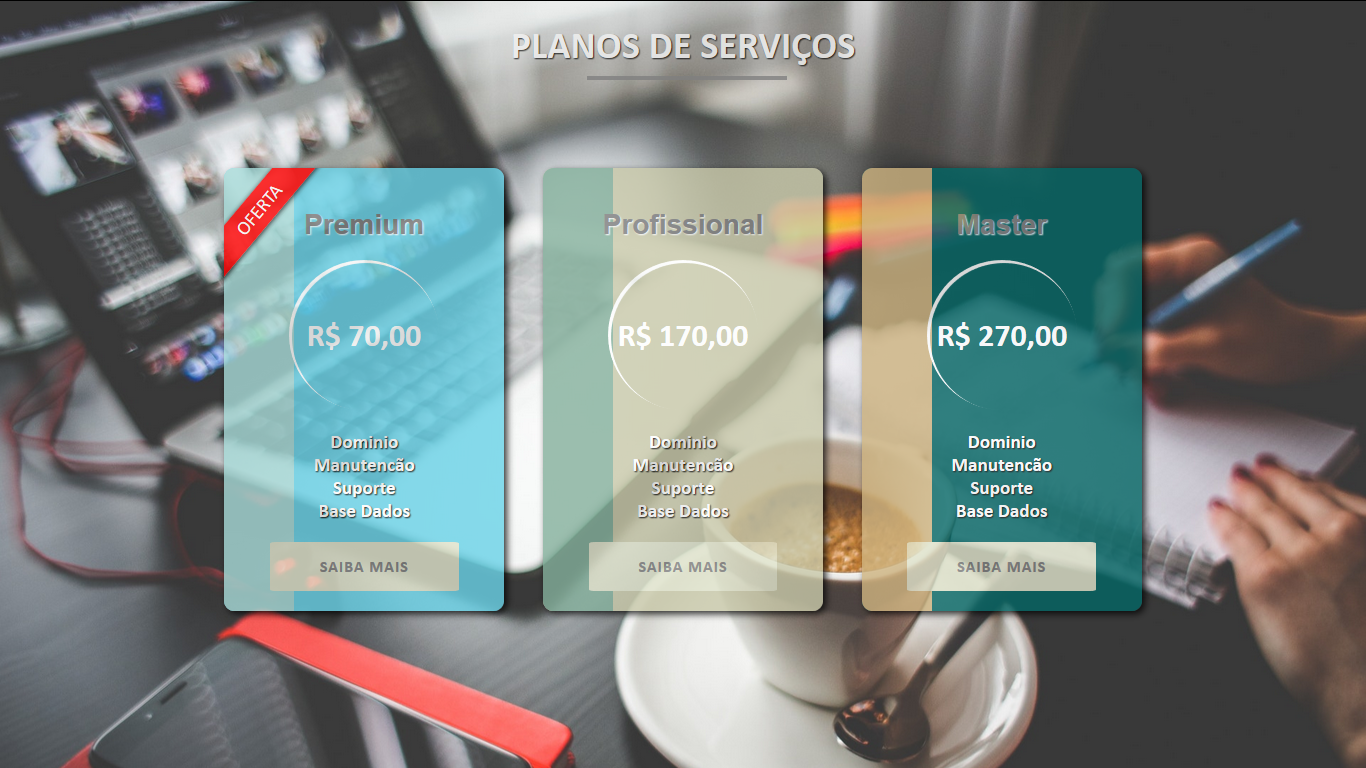
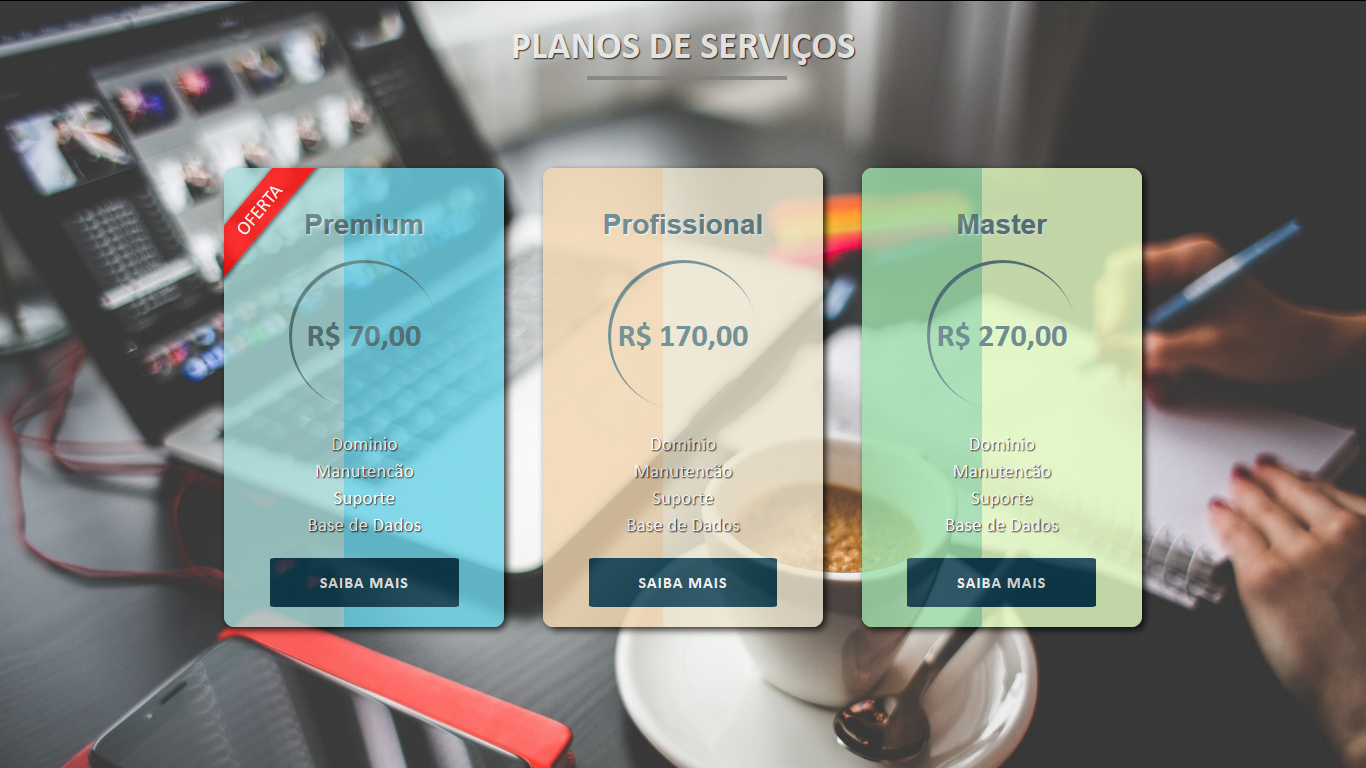
Mudando estilo dos cards

Changed region(s): [[0.1537, 0.2188, 0.8609, 0.8438]]

diff --git a/style.css b/style.css
@@ -68,27 +68,28 @@ body{
 	position: absolute;
 	top:0px;
 	left: 0px;
-	width: 70px;
-	height: 443px;
+	width: 120px;
+	height: 467px;
 	background-color: rgba(167,219,216);
 	border-top-left-radius: 7px;
 	border-bottom-left-radius: 7px;
 }
 
 .package:nth-child(2){
-	background-color: rgb(200,200,169);
+	background-color: rgb(236,229,206);
+}
+
+
+.package:nth-child(2)::before{
+	background-color: rgb(241,212,175);
 }
 
 .package:nth-child(3){
-	background-color: rgb(3,101,100);
-}
-
-.package:nth-child(2)::before{
-	background-color: rgb(131,175,155);
+	background-color: rgb(229,252,194);
 }
 
 .package:nth-child(3)::before{
-	background-color: rgb(205,179,128);
+	background-color: rgb(157,224,173);
 }
 
 .package .title{
@@ -97,7 +98,7 @@ body{
 	padding: 20px;
 	font-size: 1.5rem;
 	text-align: center;
-	color:grey;
+	color:rgb(84, 121, 128);
 	text-shadow: 1px 1px 1px white;
 	background-color:transparent;
 }
@@ -109,10 +110,10 @@ body{
 	width: 150px;
 	height: 150px;
 	border-radius:100%;
-	box-shadow:inset 2px 2px 1px 1px #fff;
+	box-shadow:inset 2px 2px 1px 1px rgb(84, 121, 128);
 	text-align: center;
 	font-weight: bold;
-	color:#fff;
+	color:rgb(84, 121, 128);
 	font-size: 2rem;
 	transform: translate(30%, 0%);
 }
@@ -121,8 +122,6 @@ body{
 	display: flex;
 	justify-content: center;
 	position: relative;
-	color:#fff;
-	text-shadow: 1px 1px 1px black;
 	z-index: 1000;
 	font-size: 1.2rem;
 }
@@ -131,7 +130,13 @@ body{
 	padding: 20px;
 	list-style: none;
 	text-align: center;
-	font-weight: bold;
+	font-weight: normal;
+}
+
+.package .body .info .info-body .info-items{
+	padding: 2px;
+	color:rgb(255, 255, 255);
+	text-shadow: 1px 1px 1px #000;
 }
 
 .button{
@@ -142,8 +147,8 @@ body{
 .btn{
 	position: relative;
 	border:none;
-	background-color: rgba(224,228,204);
-	color:grey;
+	background-color: rgba(3,54,73);
+	color:#f1f1f1;
 	font-size: 1rem;
 	font-weight: bold;
 	text-transform: uppercase;

diff --git a/index.html b/index.html
@@ -23,7 +23,7 @@
 								<li class="info-items">Dominio</li>
 								<li class="info-items">Manutencão</li>
 								<li class="info-items">Suporte</li>
-								<li class="info-items">Base Dados</li>
+								<li class="info-items">Base de Dados</li>
 							</ul>
 						</div>
 					</div>
@@ -48,7 +48,7 @@
 								<li class="info-items">Dominio</li>
 								<li class="info-items">Manutencão</li>
 								<li class="info-items">Suporte</li>
-								<li class="info-items">Base Dados</li>
+								<li class="info-items">Base de Dados</li>
 							</ul>
 						</div>
 					</div>
@@ -70,7 +70,7 @@
 								<li class="info-items">Dominio</li>
 								<li class="info-items">Manutencão</li>
 								<li class="info-items">Suporte</li>
-								<li class="info-items">Base Dados</li>
+								<li class="info-items">Base de Dados</li>
 							</ul>
 						</div>
 					</div>

diff --git a/README.md b/README.md
@@ -1,7 +1,7 @@
 ## CARD DE TABELA DE PREÇOS FICTíCIOS
 
 
-- Template
+`Template`
 
 ![Template](template.png)
 
